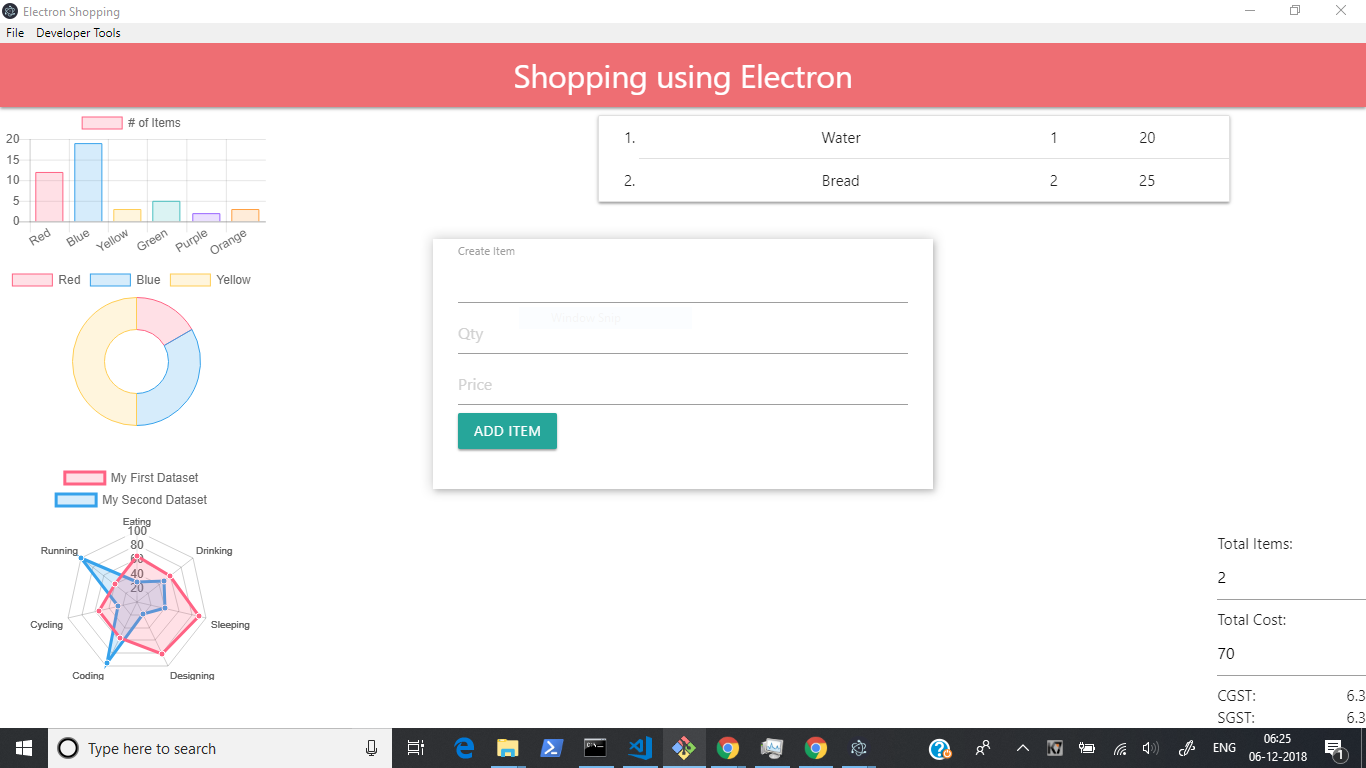
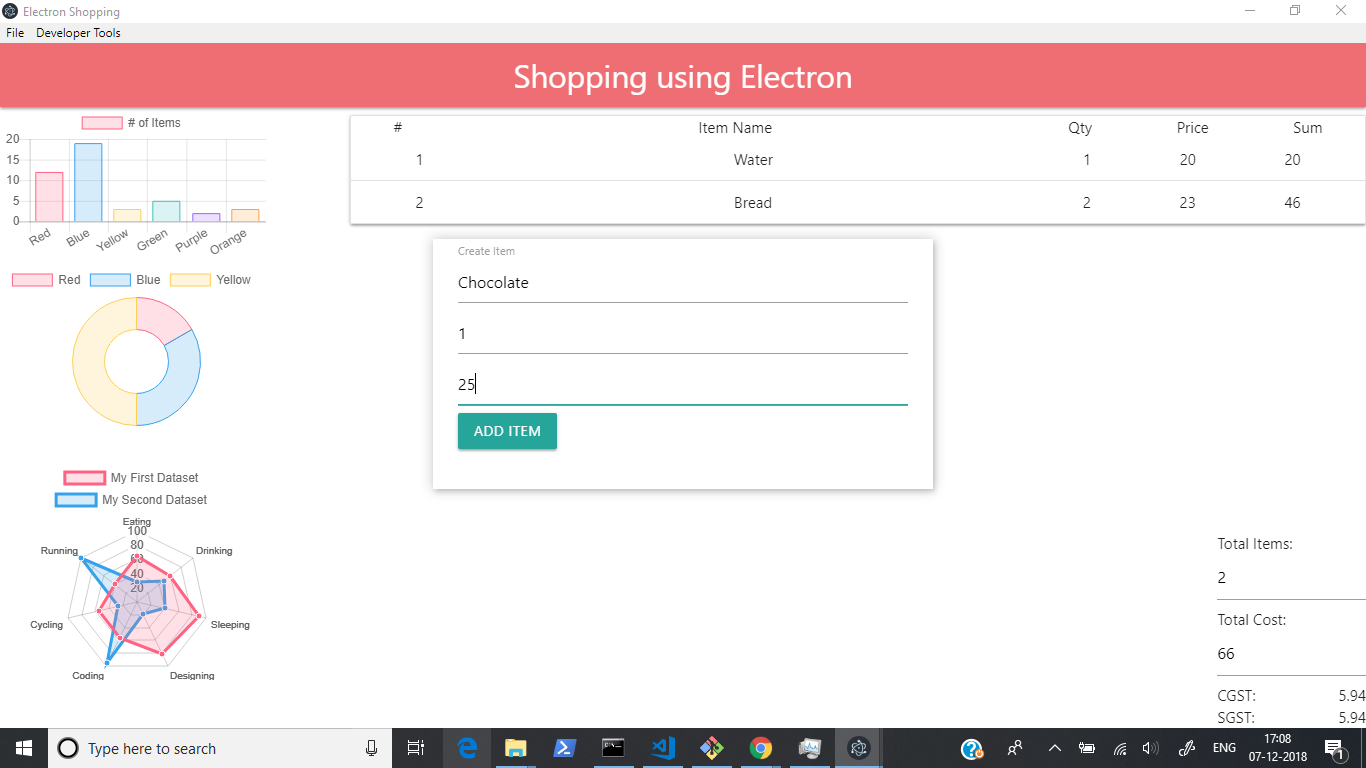
screenshot and fixed float to 2

diff --git a/mainWindow.html b/mainWindow.html
@@ -101,8 +101,8 @@
             const cgst = document.querySelector('#cgst');
             const sgst = document.querySelector('#sgst');
             cost.value = parseFloat(cost.value) + (qty * price)
-            cgst.textContent = 0.09 * parseInt(cost.value)
-            sgst.textContent = 0.09 * parseInt(cost.value)
+            cgst.textContent = (0.09 * parseFloat(cost.value)).toFixed(2)
+            sgst.textContent = (0.09 * parseFloat(cost.value)).toFixed(2)
             
             total.value = ul.children.length - 1;
 
@@ -145,8 +145,8 @@
                 const cgst = document.querySelector('#cgst');
                 const sgst = document.querySelector('#sgst');
                 cost.value = parseFloat(cost.value) - itemcost
-                cgst.textContent = 0.09 * parseInt(cost.value)
-                sgst.textContent = 0.09 * parseInt(cost.value)                
+                cgst.textContent = (0.09 * parseFloat(cost.value)).toFixed(2)
+                sgst.textContent = (0.09 * parseFloat(cost.value)).toFixed(2)                
             }
             if(ul.children.length==1) ul.className = ''
             const total = document.querySelector('#total');
